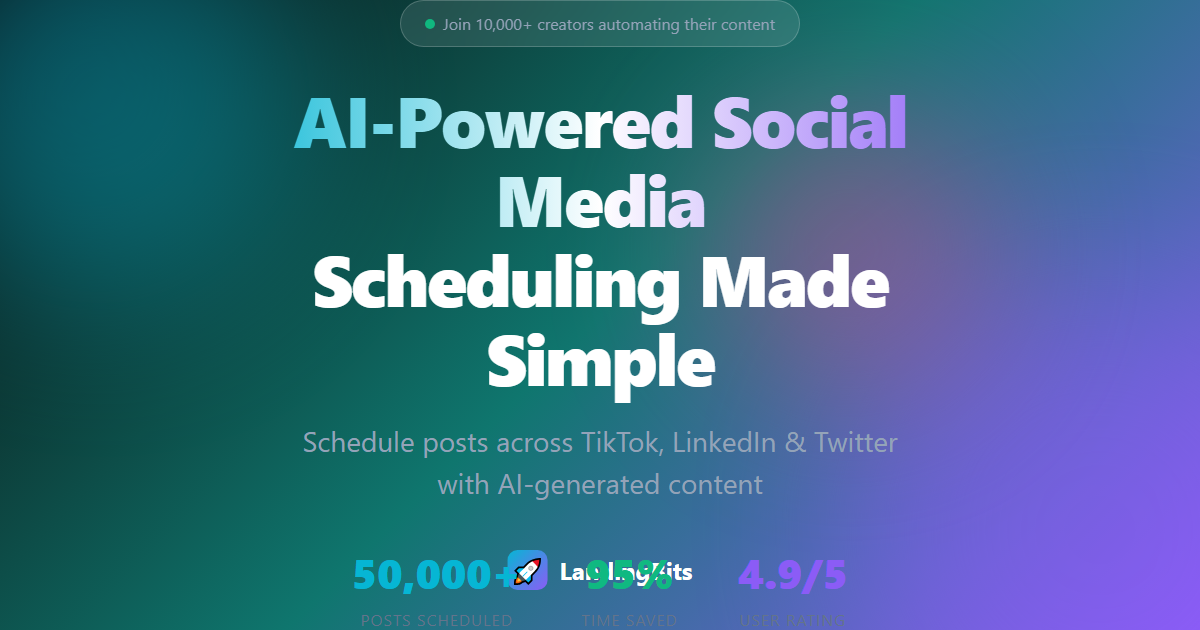
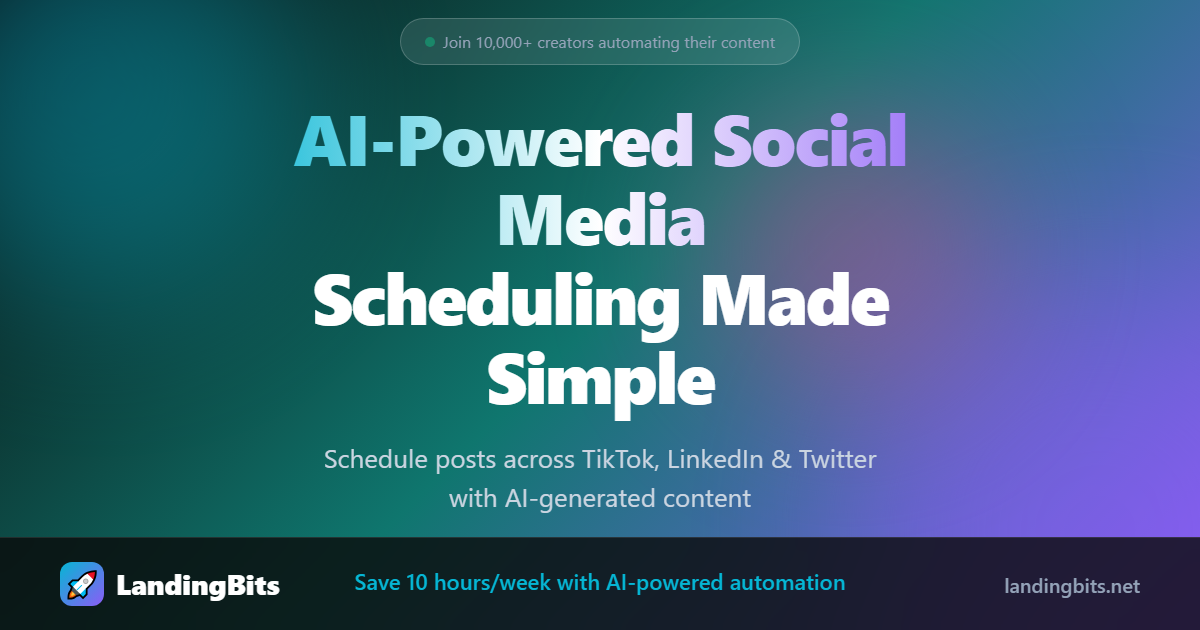
fix: Improve Open Graph image design
- Fixed footer overlap issue with dark background bar
- Added tagline: "Save 10 hours/week with AI-powered automation"
- Added domain: "landingbits.net" (right side)
- Improved logo visibility with larger size
- Better contrast for all text elements
- Cleaner layout with proper spacing

🤖 Generated with [Claude Code](https://claude.com/claude-code)

diff --git a/public/og-preview-template.html b/public/og-preview-template.html
@@ -110,48 +110,37 @@
     }
 
     .subtitle {
-      font-size: 28px;
-      color: #94A3B8;
+      font-size: 26px;
+      color: #CBD5E1;
       line-height: 1.5;
-      margin-bottom: 40px;
+      margin-bottom: 50px;
       font-weight: 400;
     }
 
-    .stats {
+    .tagline {
+      font-size: 22px;
+      color: #06B6D4;
+      font-weight: 600;
+      margin-bottom: 16px;
+    }
+
+    .footer {
+      position: absolute;
+      bottom: 0;
+      left: 0;
+      right: 0;
+      background: rgba(10, 10, 10, 0.8);
+      backdrop-filter: blur(10px);
+      padding: 24px 60px;
       display: flex;
-      justify-content: center;
-      gap: 60px;
-      margin-top: 40px;
-    }
-
-    .stat {
-      text-align: center;
-    }
-
-    .stat-value {
-      font-size: 42px;
-      font-weight: 800;
-      margin-bottom: 8px;
-    }
-
-    .stat-value.cyan { color: #06B6D4; }
-    .stat-value.green { color: #10B981; }
-    .stat-value.purple { color: #8B5CF6; }
-
-    .stat-label {
-      font-size: 16px;
-      color: #64748B;
-      text-transform: uppercase;
-      letter-spacing: 1px;
+      justify-content: space-between;
+      align-items: center;
+      border-top: 1px solid rgba(255, 255, 255, 0.1);
     }
 
     .logo {
-      position: absolute;
-      bottom: 40px;
-      left: 50%;
-      transform: translateX(-50%);
-      font-size: 24px;
-      font-weight: 700;
+      font-size: 28px;
+      font-weight: 800;
       color: #ffffff;
       display: flex;
       align-items: center;
@@ -159,14 +148,20 @@
     }
 
     .logo-icon {
-      width: 40px;
-      height: 40px;
+      width: 44px;
+      height: 44px;
       background: linear-gradient(135deg, #06B6D4, #8B5CF6);
-      border-radius: 10px;
+      border-radius: 12px;
       display: flex;
       align-items: center;
       justify-content: center;
-      font-size: 24px;
+      font-size: 26px;
+    }
+
+    .domain {
+      font-size: 20px;
+      color: #94A3B8;
+      font-weight: 500;
     }
   </style>
 </head>
@@ -191,25 +186,19 @@
       with AI-generated content
     </p>
 
-    <div class="stats">
-      <div class="stat">
-        <div class="stat-value cyan">50,000+</div>
-        <div class="stat-label">Posts Scheduled</div>
-      </div>
-      <div class="stat">
-        <div class="stat-value green">95%</div>
-        <div class="stat-label">Time Saved</div>
-      </div>
-      <div class="stat">
-        <div class="stat-value purple">4.9/5</div>
-        <div class="stat-label">User Rating</div>
-      </div>
-    </div>
+    <p class="tagline">
+      Save 10 hours/week with AI-powered automation
+    </p>
   </div>
 
-  <div class="logo">
-    <div class="logo-icon">🚀</div>
-    <span>LandingBits</span>
+  <div class="footer">
+    <div class="logo">
+      <div class="logo-icon">🚀</div>
+      <span>LandingBits</span>
+    </div>
+    <div class="domain">
+      landingbits.net
+    </div>
   </div>
 </body>
 </html>
